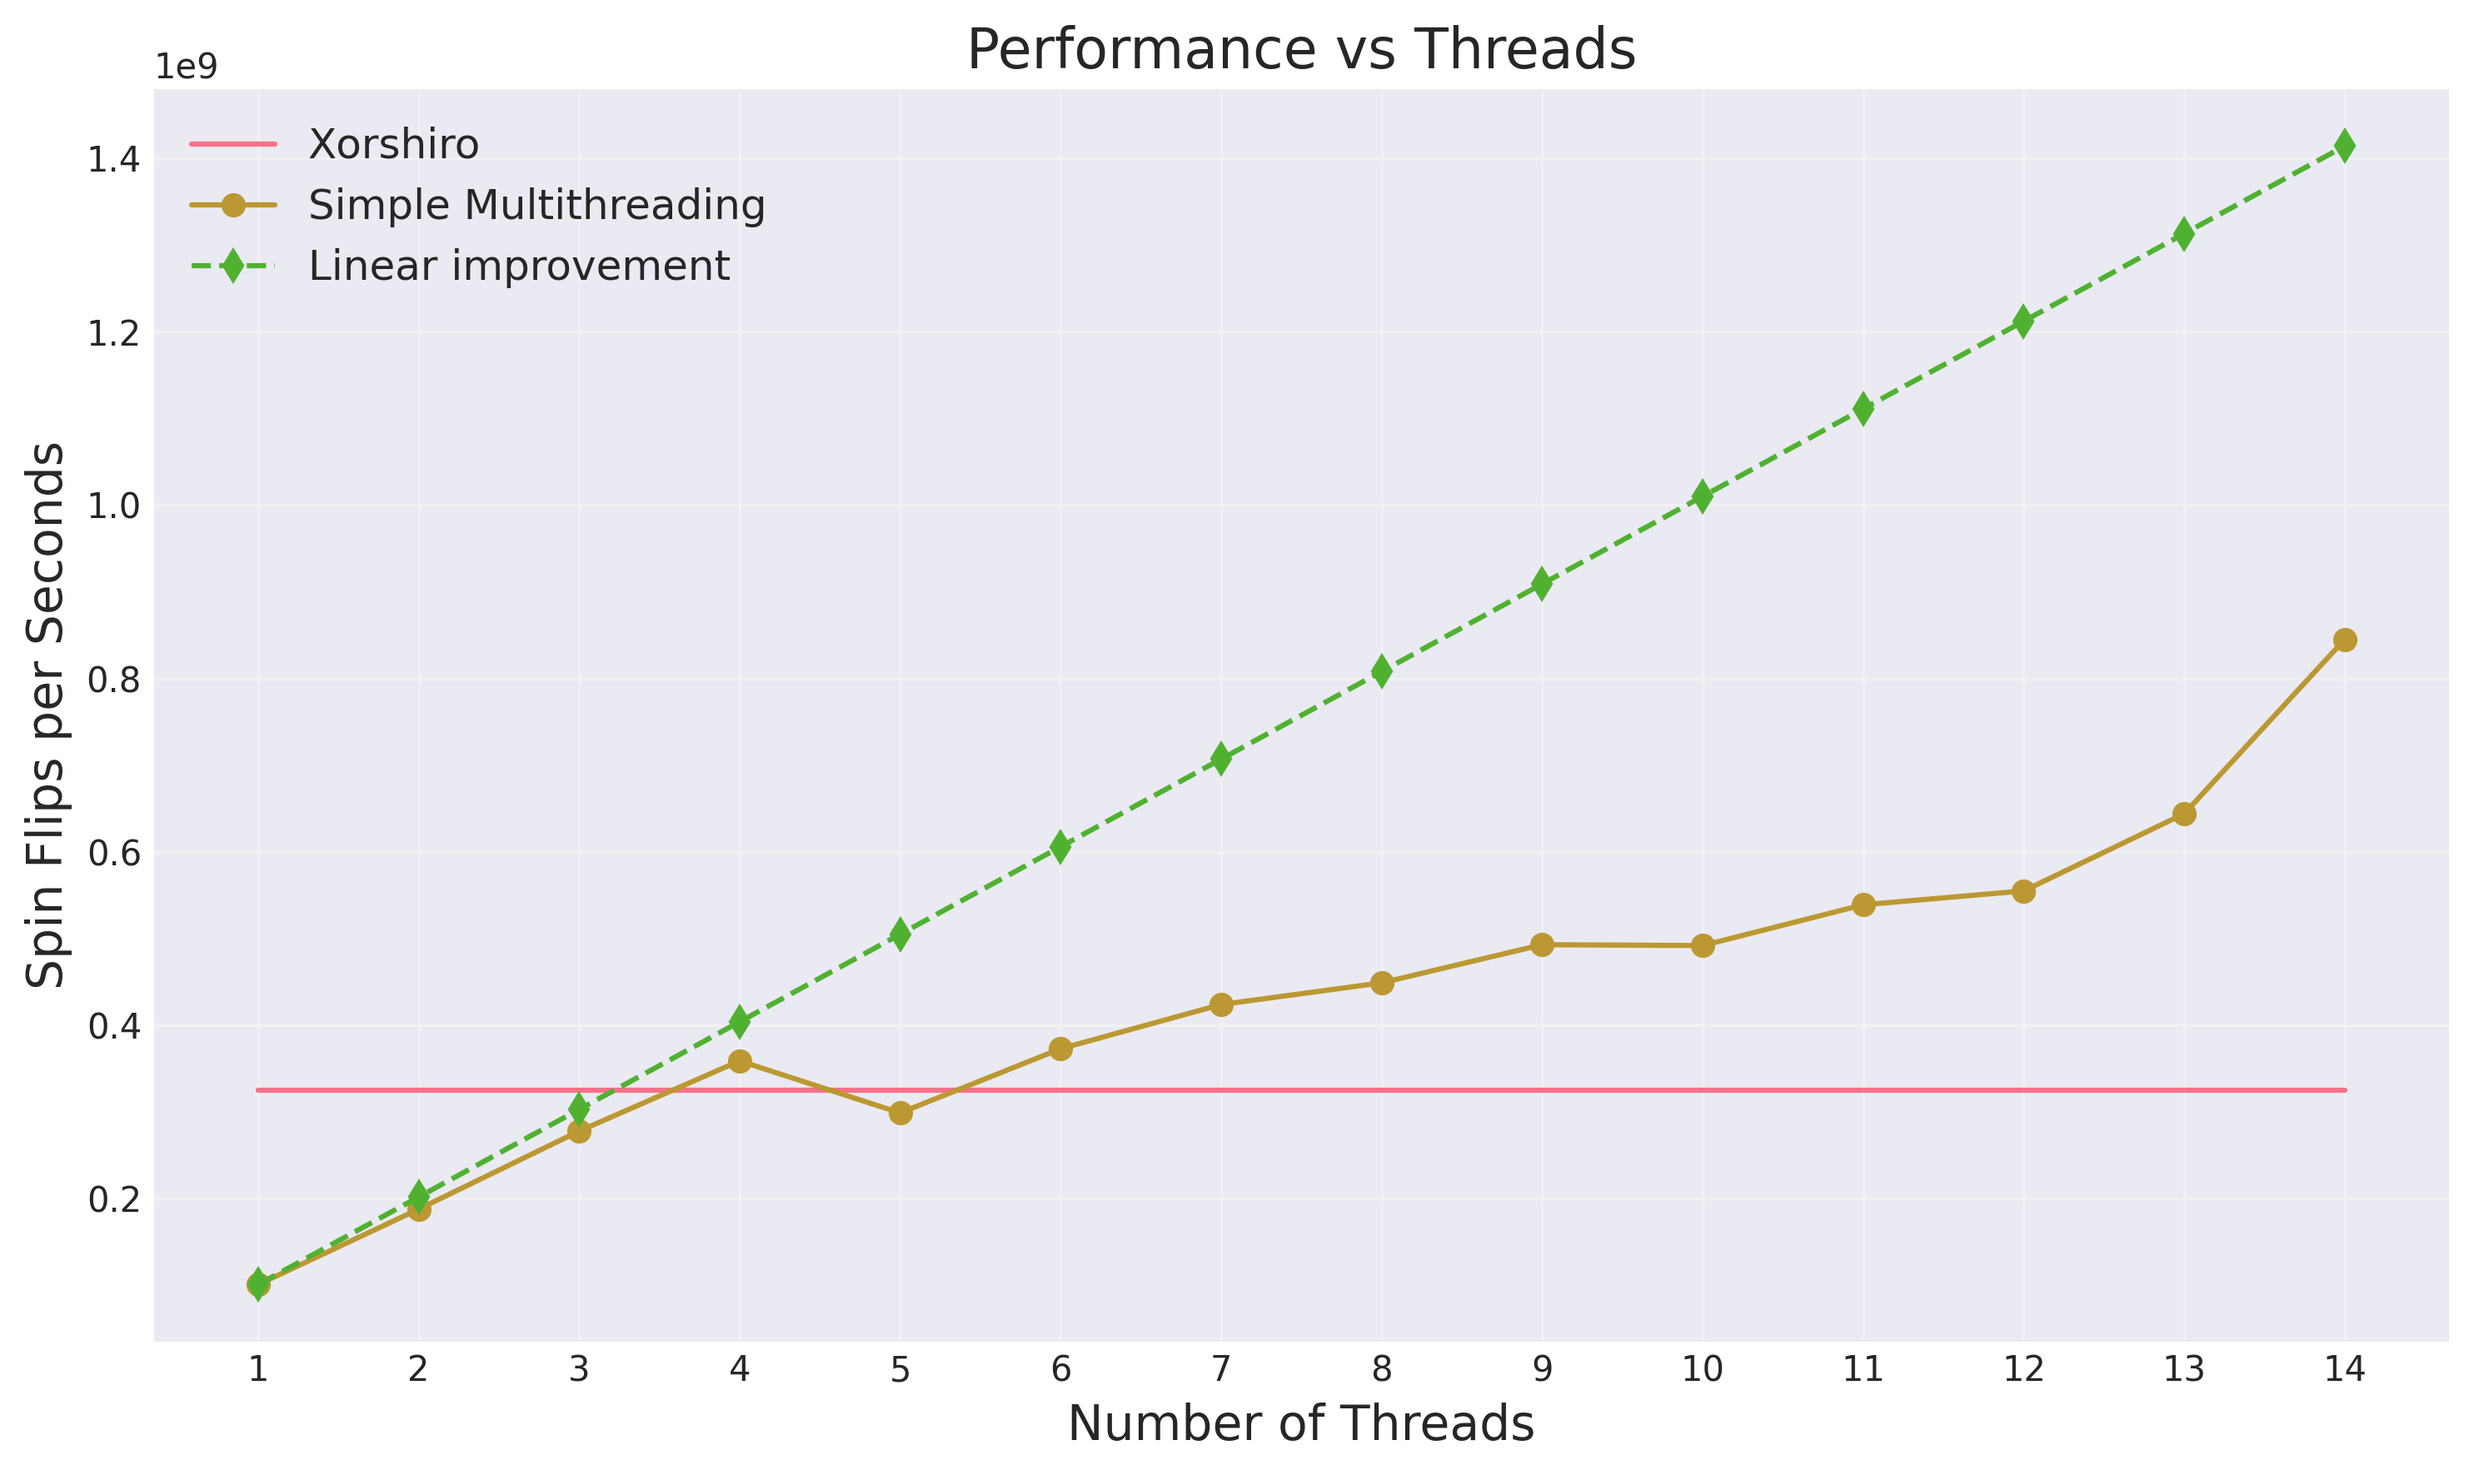
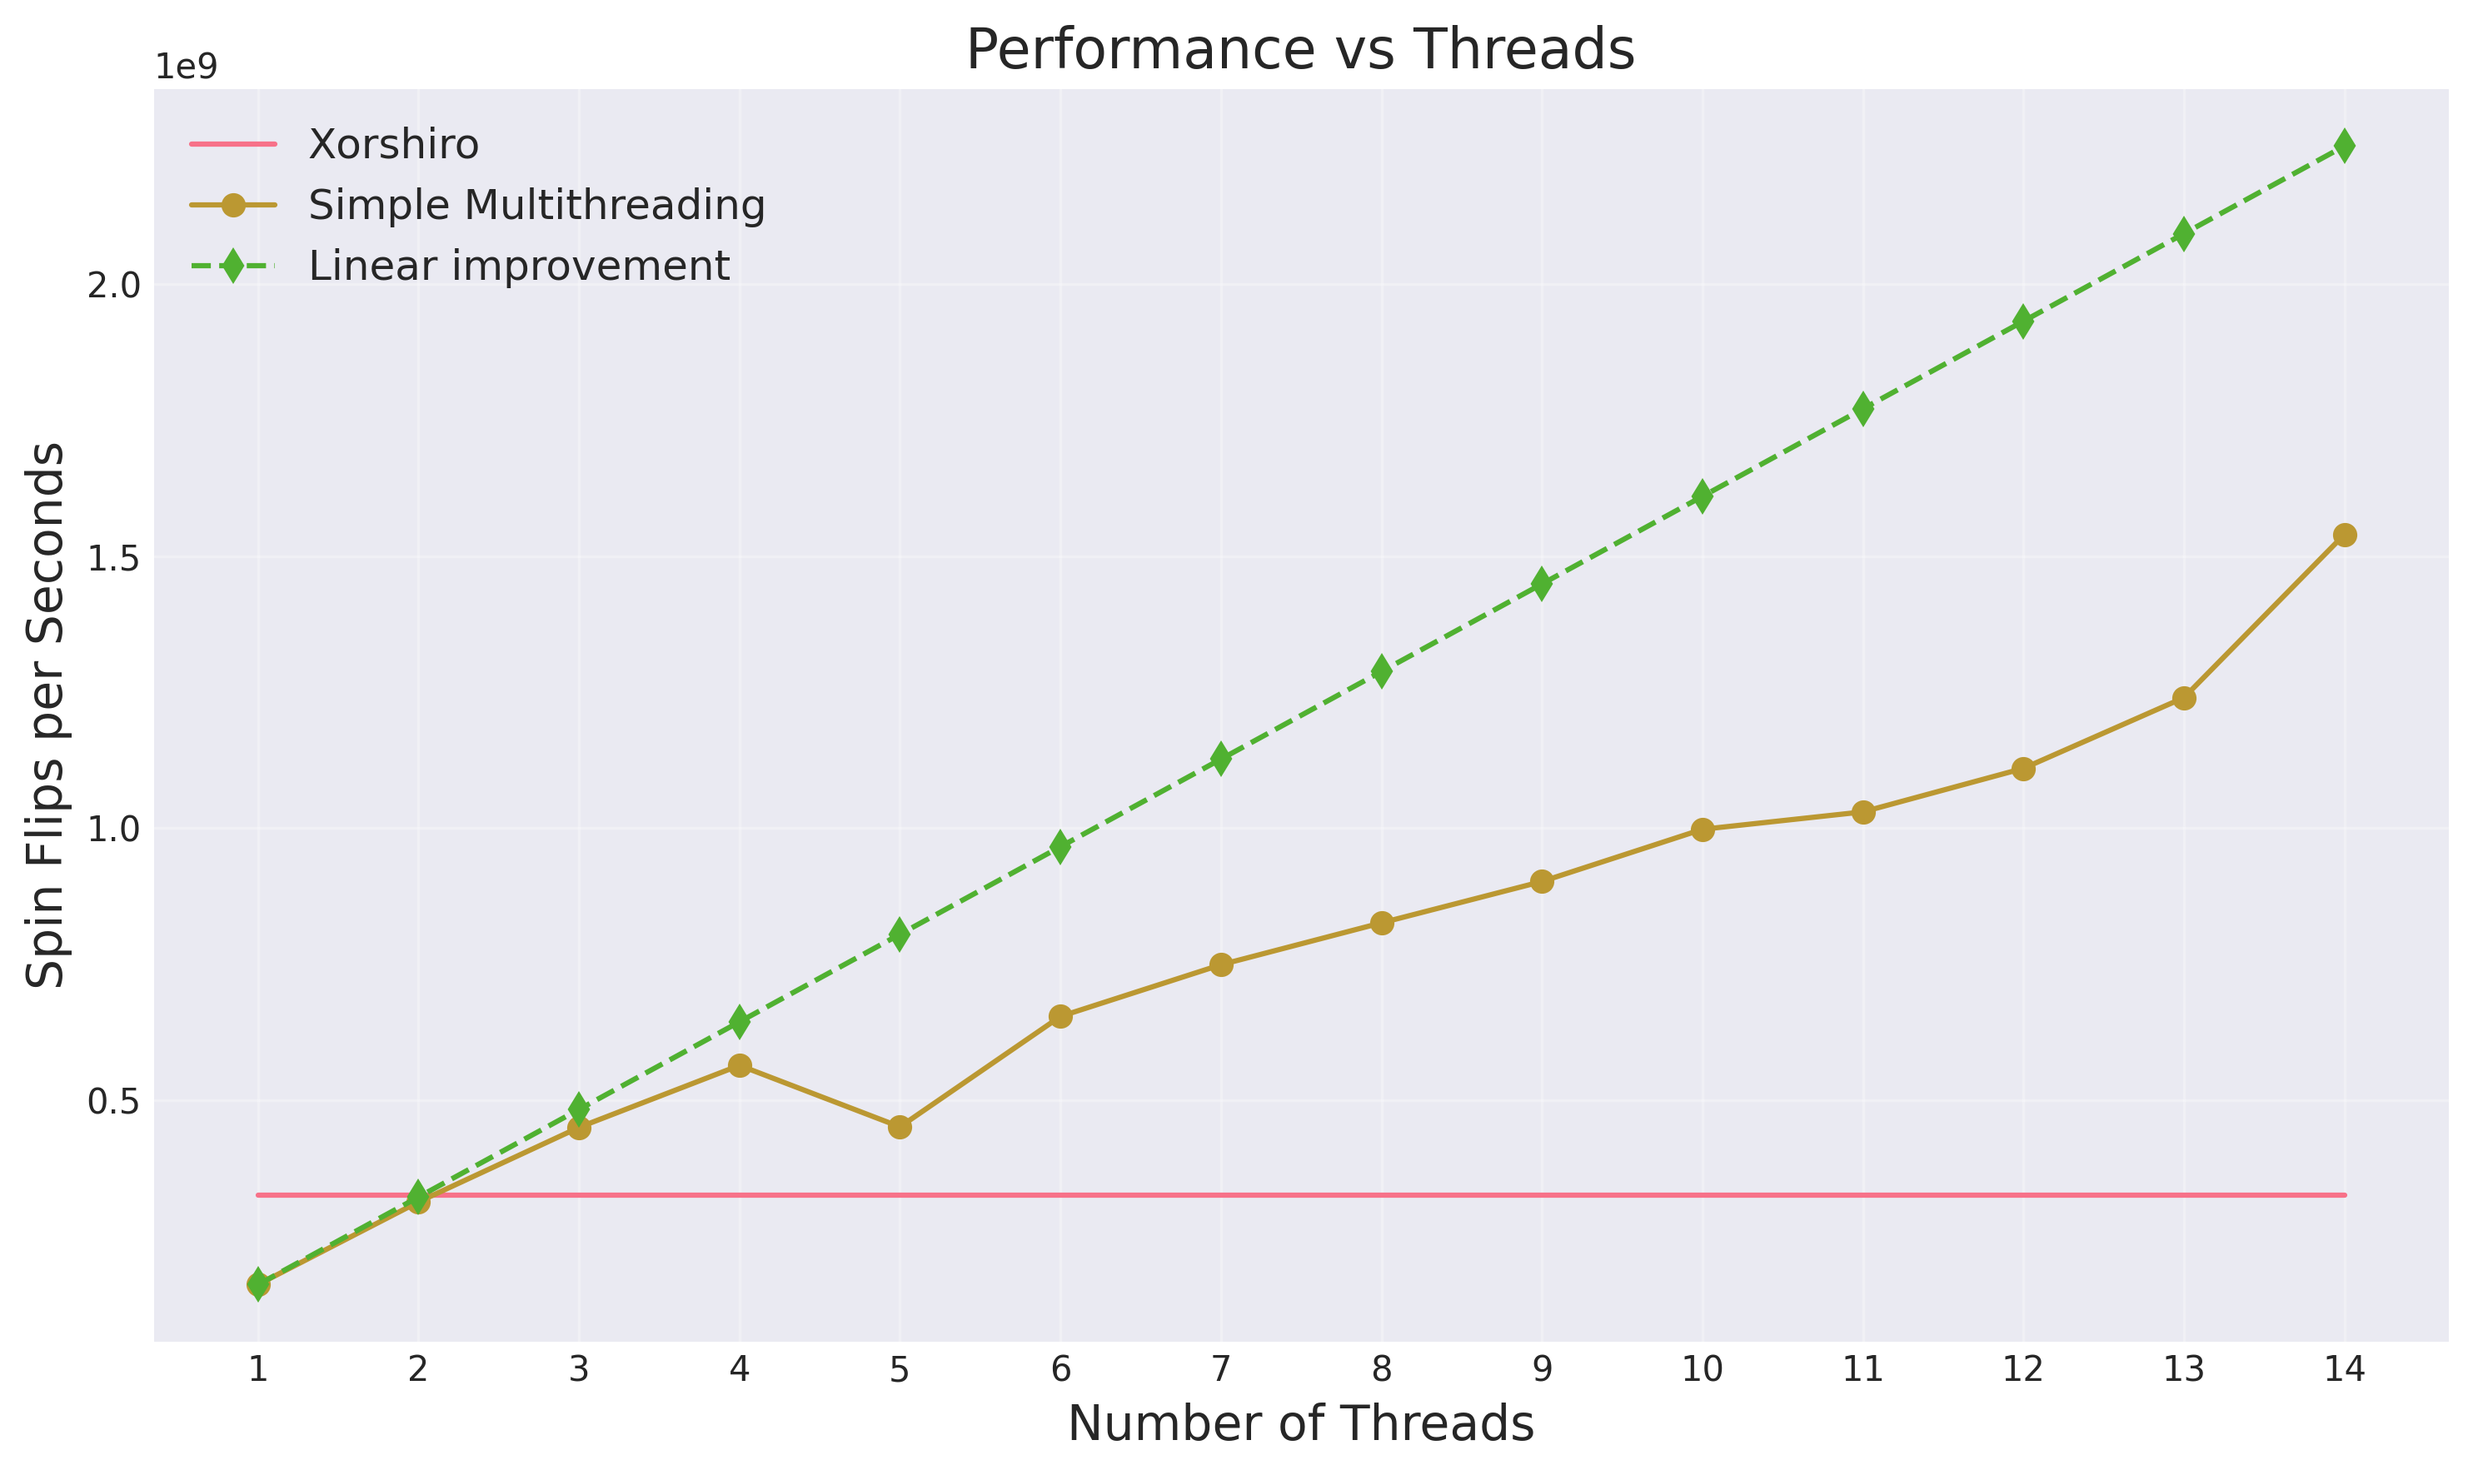
Additional Code optimizations and data update

diff --git a/benchmark.py b/benchmark.py
@@ -27,8 +27,8 @@ performance = [
     1.64E+08,  
     2.05E+08,   
     3.25E+08,
-    8.45E+08,
-    7.37E+09,
+    1.54E+09,
+    2.79E+10,
     2.84E+09,
 ]
 
@@ -90,43 +90,26 @@ for v, p in zip(versions[1:], performance[1:]):
 threads = np.arange(1, 15)
 
 ### Threading benchmark
-performance_threads = [ 1.01E+08,
-                        1.88E+08,
-                        2.78E+08,
-                        3.59E+08,
-                        2.99E+08,
-                        3.73E+08,
-                        4.24E+08,
-                        4.49E+08,
-                        4.93E+08,
-                        4.92E+08,
-                        5.39E+08,
-                        5.55E+08,
-                        6.44E+08,
-                        8.45E+08]
-
-performance_64_sims = [3.41E+09,
-                        4.86E+09,
-                        5.81E+09,
-                        6.34E+09,
-                        5.63E+09,
-                        6.22E+09,
-                        6.33E+09,
-                        6.59E+09,
-                        6.86E+09,
-                        7.28E+09,
-                        6.95E+09,
-                        6.96E+09,
-                        6.77E+09,
-                        7.37E+09]
+performance_threads = [ 1.61E+08,
+                        3.13E+08,
+                        4.50E+08,
+                        5.64E+08,
+                        4.51E+08,
+                        6.54E+08,
+                        7.49E+08,
+                        8.26E+08,
+                        9.02E+08,
+                        9.98E+08,
+                        1.03E+09,
+                        1.11E+09,
+                        1.24E+09,
+                        1.54E+09]
 
 # Plotting
 plt.figure(figsize=(10, 6))
 plt.plot(threads, 3.25E+08  * np.ones(14), label="Xorshiro")
 plt.plot(threads, performance_threads, marker='o', label="Simple Multithreading")
 plt.plot(threads, performance_threads[0] * np.arange(1,15), marker='d', linestyle = 'dashed', label="Linear improvement")
-
-#plt.plot(threads, performance_64_sims, marker='d', label="Performance 64 sims")
 
 # Labels and legend
 plt.title("Performance vs Threads", fontsize=16)

diff --git a/ising_threads.cc b/ising_threads.cc
@@ -76,8 +76,9 @@ thread_local Xorshiro rng(std::random_device{}());
 
 // Function to initialize spins with more -1 values
 void initialize_spins(std::vector<int>& spins) {
+    Xorshiro& local_rng = rng;  // Get TLS reference once at the start of thread
     for (int i = 0; i < N; ++i) {
-        spins[i] = (rng.next_double() < 0.25) ? -1 : 1;
+        spins[i] = (local_rng.next_double() < 0.25) ? -1 : 1;
     }
 }
 
@@ -147,7 +148,7 @@ void run_simulation(int num_threads, std::ofstream &prof_file) {
 
     initialize_exp_lookup(T);
     // Profile initialization
-  auto init_start_time = std::chrono::high_resolution_clock::now();  // Start profiling initialization
+    auto init_start_time = std::chrono::high_resolution_clock::now();  // Start profiling initialization
     initialize_spins(spins);
     auto init_end_time = std::chrono::high_resolution_clock::now();  // End profiling initialization
     std::chrono::duration<double> init_duration = init_end_time - init_start_time;
@@ -162,7 +163,7 @@ void run_simulation(int num_threads, std::ofstream &prof_file) {
         update_spins(spins, 0, num_threads, dispatch_queue);  // Update black sites
         update_spins(spins, 1, num_threads, dispatch_queue);  // Update white sites
         
-        if (step % 1 == 0) {
+        if (step % 10 == 0) {
             prof_file << "Step " << step << " Magnetization: " 
                      << magnetization(spins) << "\n";
         }
@@ -192,7 +193,7 @@ int main() {
     // Open CSV file for profiling data
     std::ofstream prof_file("profiling_data_threads.csv");
 
-    for (int num_threads = NUM_THREADS; num_threads <= NUM_THREADS; ++num_threads) {
+    for (int num_threads = 1; num_threads <= NUM_THREADS; ++num_threads) {
         run_simulation(num_threads, prof_file);
     }
     

diff --git a/ising_checkerboard_64_sims.cc b/ising_checkerboard_64_sims.cc
@@ -85,17 +85,17 @@ void initialize_exp_lookup(double T) {
 // Initialize spins for all parallel simulations with 75% probability of +1
 void initialize_spins(std::vector<SpinBlock> &spin_blocks) {
     const double prob = 0.75;  // Probability of +1 spin
-    
+    Xorshiro& local_rng = rng;  // Get TLS reference once at the start of thread
+
     for (int i = 0; i < N; ++i) {
         uint64_t block = 0;
         
         // Generate 64 random values and set bits based on probability
         for (int bit = 0; bit < 64; ++bit) {
-            if (rng.next() % 100 < prob * 100) {  // Using integer arithmetic for speed
+            if (local_rng.next() % 100 < prob * 100) {  // Using integer arithmetic for speed
                 block |= (1ULL << bit);
             }
         }
-        
         spin_blocks[i].spins = block;
     }
 }
@@ -229,7 +229,7 @@ void run_simulation(int num_threads, std::ofstream &prof_file) {
         update_spins(spins, 0, num_threads, dispatch_queue);
         update_spins(spins, 1, num_threads, dispatch_queue);
 
-        if (i % 1 == 0) {
+        if (i % 10 == 0) {
             if(PRINT_MAGNETIZATION) {
                 mags = magnetization(spins);
                 prof_file << "Step " << i << " Magnetization (sim 0): " << mags[0] << "\n";

diff --git a/ising_basic.cc b/ising_basic.cc
@@ -82,9 +82,9 @@ void run_simulation(std::ofstream &prof_file) {
         }
         
         // Print magnetization every 10 steps
-        if (step % 1 == 0) {
-            std::cout << "Step " << step << " Magnetization: " 
-                     << magnetization(spins) << "\n";
+        if (step % 10 == 0) {
+            //std::cout << "Step " << step << " Magnetization: " 
+            //         << magnetization(spins) << "\n";
             prof_file << "Step " << step << " Magnetization: " 
                      << magnetization(spins) << "\n";
         }

diff --git a/ising_checkerboard.cc b/ising_checkerboard.cc
@@ -82,7 +82,7 @@ void run_simulation(std::ofstream &prof_file) {
         update_spins(spins, 0, gen);  // Update black sites
         update_spins(spins, 1, gen);  // Update white sites
         
-        if (step % 1 == 0) {
+        if (step % 10 == 0) {
             prof_file << "Step " << step << " Magnetization: " 
                      << magnetization(spins) << "\n";
         }

diff --git a/ising_exp_lookup.cc b/ising_exp_lookup.cc
@@ -94,7 +94,7 @@ void run_simulation(std::ofstream &prof_file) {
         update_spins(spins, 0, gen);  // Update black sites
         update_spins(spins, 1, gen);  // Update white sites
         
-        if (step % 1 == 0) {
+        if (step % 10 == 0) {
             prof_file << "Step " << step << " Magnetization: " 
                      << magnetization(spins) << "\n";
         }

diff --git a/ising_Xorshiro.cc b/ising_Xorshiro.cc
@@ -130,7 +130,7 @@ void run_simulation(std::ofstream &prof_file) {
         update_spins(spins, 0);  // Update black sites
         update_spins(spins, 1);  // Update white sites
         
-        if (step % 1 == 0) {
+        if (step % 10 == 0) {
             prof_file << "Step " << step << " Magnetization: " 
                      << magnetization(spins) << "\n";
         }
